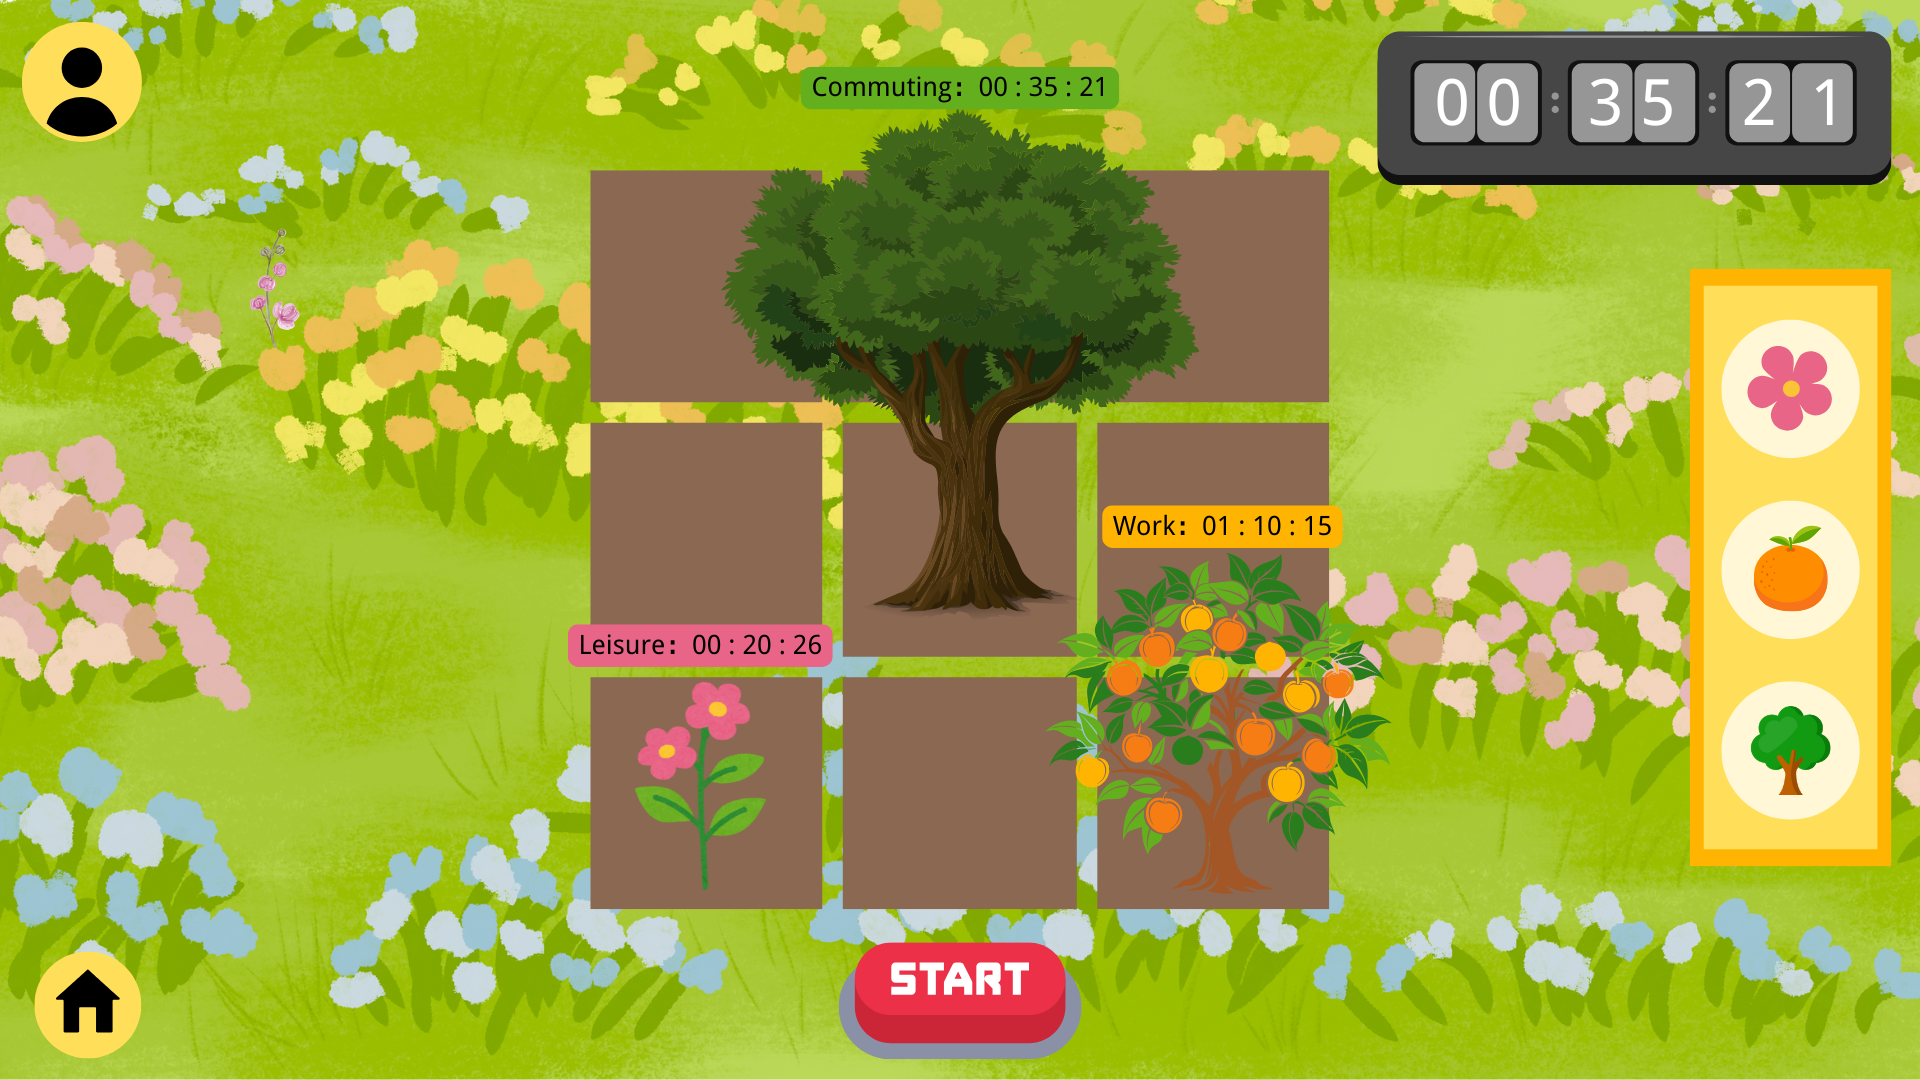
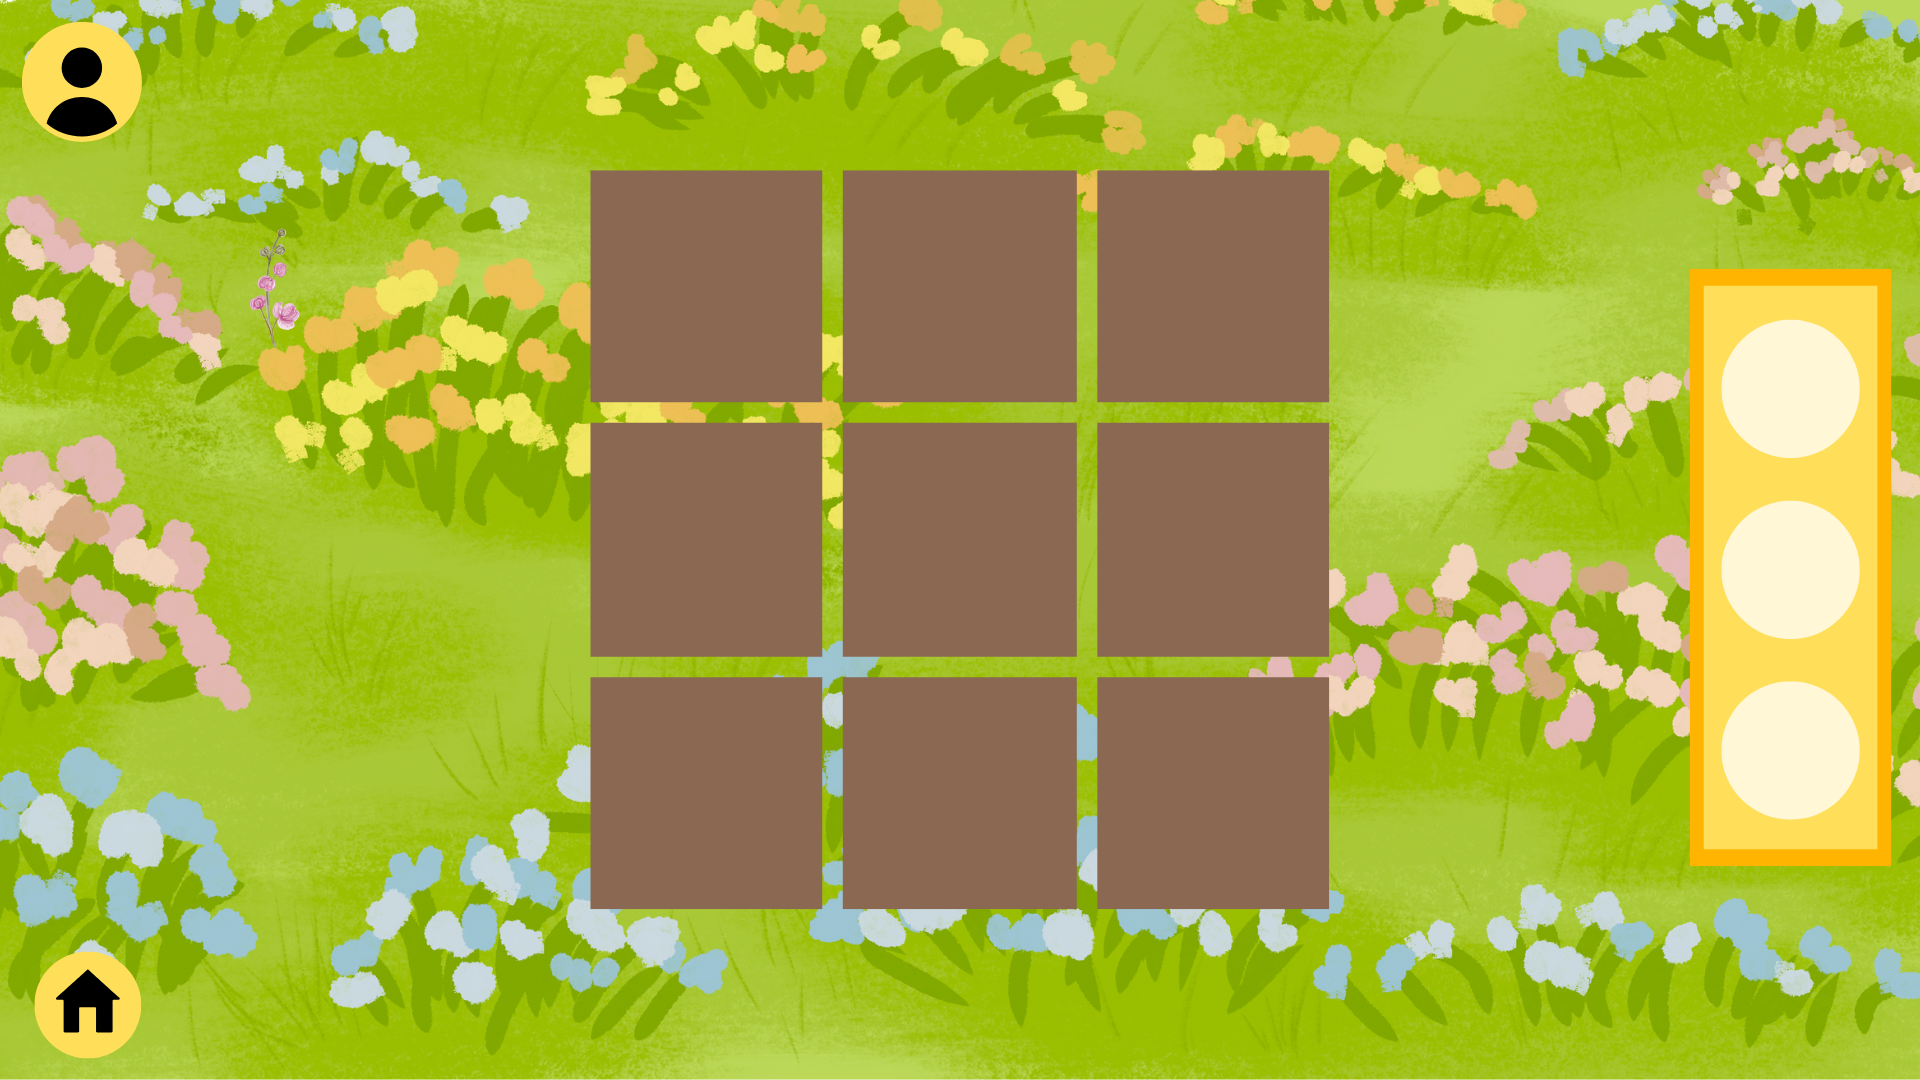
Fixed UI & Added Home page

diff --git a/main.py b/main.py
@@ -6,8 +6,8 @@ import time
 
 # --- 設定常數 ---
 # 遊戲尺寸: 應與背景圖片大小相同 (這裡假設為 800x600)
-SCREEN_WIDTH = 800
-SCREEN_HEIGHT = 600
+SCREEN_WIDTH = 960
+SCREEN_HEIGHT = 540
 FPS = 60
 DATA_FILE = 'data.json'
 
@@ -32,7 +32,7 @@ PLANT_TYPES = {
 # }
 STAGE_DURATIONS = {
     1: 4,  # 900 秒 (0-15 分鐘)
-    2: 3,  # 1800 秒 (15-30 分鐘)
+    2: 6,  # 1800 秒 (15-30 分鐘)
     3: float('inf')  # >30 分鐘
 }
 
@@ -44,6 +44,8 @@ PLOT_POSITIONS = [
     (200, 300), (400, 300), (600, 300),  # 網格中心應是 (400, 300) 附近的大樹位置
     (200, 450), (400, 450), (600, 450)
 ]
+
+
 # 這裡將中心的大樹視為背景的一部分或不可種植的固定元素，
 # 故將網格繪製在周圍 8 塊，但文件說是 9 塊，
 # 程式中以 9 塊 (3x3) 網格處理，並調整座標以適應圖片。
@@ -56,15 +58,29 @@ PLOT_POSITIONS = [
     (250, 450), (400, 450), (550, 450)
 ]
 
+PLOT_POSITIONS = [
+    (355, 145), (480, 145), (605, 145),
+    (355, 270), (480, 270), (605, 270),
+    (355, 395), (480, 395), (605, 395)
+]
+
 # 植物選擇按鈕位置 (根據圖片右側的三個按鈕)
 BUTTON_RECTS = {
-    1: pygame.Rect(690, 100, 100, 100),  # 花 (Leisure)
-    2: pygame.Rect(690, 250, 100, 100),  # 果樹 (Work)
-    3: pygame.Rect(690, 400, 100, 100)  # 樹 (Commuting)
+    1: pygame.Rect(855, 155, 80, 80),  # 花 (Leisure)
+    2: pygame.Rect(855, 240, 80, 80),  # 果樹 (Work)
+    3: pygame.Rect(855, 325, 80, 80)  # 樹 (Commuting)
+}
+
+BUTTON_RECTS = {
+    1: pygame.Rect(855, 155, 80, 80),  # 花 (Leisure)
+    2: pygame.Rect(855, 240, 80, 80),  # 果樹 (Work)
+    3: pygame.Rect(855, 325, 80, 80)  # 樹 (Commuting)
 }
 
 # 開始/停止按鈕位置 (圖片底部的紅色按鈕)
-START_BUTTON_RECT = pygame.Rect(400 - 50, 520, 100, 50)
+START_BUTTON_RECT = pygame.Rect(425, 475, 100, 50)
+
+home_button_rect = pygame.Rect(-6.5, 477, 320, 100)
 
 
 # --- 資料處理函式 ---
@@ -157,14 +173,24 @@ def get_plant_sprite(plant_type, duration):
 
 # --- Pygame 輔助函式 ---
 
-def draw_text(surface, text, font, color, x, y, center=False):
-    """繪製文字到螢幕。"""
+def draw_text(surface, text, font, color, x, y, center=False, bg_color=None, padding=5):
     text_surface = font.render(text, True, color)
     text_rect = text_surface.get_rect()
+
     if center:
         text_rect.center = (x, y)
     else:
         text_rect.topleft = (x, y)
+
+    # 如果有背景顏色，先繪製背景矩形
+    if bg_color is not None:
+        # 建立背景矩形（比文字大一點）
+        bg_rect = text_rect.inflate(padding * 2, padding * 2)
+        pygame.draw.rect(surface, bg_color, bg_rect)
+        # 可選：加上邊框
+        # pygame.draw.rect(surface, (0, 0, 0), bg_rect, 2)
+
+    # 繪製文字
     surface.blit(text_surface, text_rect)
     return text_rect
 
@@ -230,13 +256,17 @@ class ThrivingLikeTrees:
         self.screen = pygame.display.set_mode((SCREEN_WIDTH, SCREEN_HEIGHT))
         pygame.display.set_caption("Thriving like Trees")
         self.clock = pygame.time.Clock()
-        self.font_small = pygame.font.Font(None, 24)
-        self.font_medium = pygame.font.Font(None, 36)
-        self.font_large = pygame.font.Font(None, 48)
+        font_path = "C:/Windows/Fonts/msyh.ttc"  # 微軟雅黑
+        self.font_small = pygame.font.Font(font_path, 12)
+        self.font_medium = pygame.font.Font(font_path, 24)
+        self.font_large = pygame.font.Font(font_path, 36)
 
         # 載入資源
         self.background_img = load_image('./image/background.png', (SCREEN_WIDTH, SCREEN_HEIGHT))
+        self.home_img = load_image('./image/Home.png', (SCREEN_WIDTH, SCREEN_HEIGHT))
         self.start_button_img = load_image('./image/start_button.png', (100, 50))
+        self.home_button_img = load_image('./image/home_button.png', (100, 50))
+        self.stop_button_img = load_image('./image/stop_button.png', (100, 50))
         # 載入植物選擇按鈕圖 (這裡只是佔位，您需要替換成實際圖片)
         self.plant_select_imgs = {
             1: load_image('./image/flower_icon.png', (80, 80)),
@@ -244,8 +274,8 @@ class ThrivingLikeTrees:
             3: load_image('./image/tree_icon.png', (80, 80)),
         }
 
-        # 遊戲狀態
-        self.state = 'GARDEN_VIEW'  # 'GARDEN_VIEW', 'INPUT_NAME'
+        # 遊戲狀態: 'HOME', 'GARDEN_VIEW', 'INPUT_NAME'
+        self.state = 'HOME'
 
         # 資料
         self.data = load_data()
@@ -260,27 +290,58 @@ class ThrivingLikeTrees:
         self.selected_plant_type = 0  # 1: 花, 2: 果樹, 3: 樹
         self.planting_index = -1  # 當前種植的位置索引
 
+        # 提示文字
+        self.warning_text = ""
+        self.warning_time = 0
+
         # 文字輸入框
         self.input_box = TextInputBox(SCREEN_WIDTH // 2 - 100, SCREEN_HEIGHT // 2, 200, 40, self.font_medium)
 
         # 頁面切換按鈕 (假設)
-        self.prev_page_rect = pygame.Rect(50, SCREEN_HEIGHT // 2, 50, 50)
-        self.next_page_rect = pygame.Rect(SCREEN_WIDTH - 100, SCREEN_HEIGHT // 2, 50, 50)
+        self.prev_page_rect = pygame.Rect(200, SCREEN_HEIGHT // 2, 50, 50)
+        self.next_page_rect = pygame.Rect(SCREEN_WIDTH - 250, SCREEN_HEIGHT // 2, 50, 50)
+
+        # 主頁按鈕 (左下角)
+        #self.home_button_rect = pygame.Rect(23.5, 483, 40, 40)
+        self.home_button_rect = pygame.Rect(0, 480, 320, 100)
+
+        # 進入遊戲按鈕 (在主頁中央)
+        self.enter_game_button_rect = pygame.Rect(SCREEN_WIDTH // 2 - 50, SCREEN_HEIGHT // 2 + 100, 100, 50)
+
+    def show_warning(self, text, duration=2):
+        """顯示臨時警告文字 (預設 2 秒後消失)"""
+        self.warning_text = text
+        self.warning_time = time.time() + duration
 
     def handle_input(self):
         """處理 Pygame 事件。"""
         for event in pygame.event.get():
             if event.type == pygame.QUIT:
                 if self.is_timing:
-                    # 如果正在計時，則在退出前停止計時並保存 (可選)
                     self.stop_timer(event_name="未命名活動")
                 save_data(self.data)
                 pygame.quit()
                 sys.exit()
 
-            if self.state == 'GARDEN_VIEW':
+            if self.state == 'HOME':
                 if event.type == pygame.MOUSEBUTTONDOWN:
                     mouse_pos = event.pos
+
+                    # 進入遊戲按鈕
+                    if self.enter_game_button_rect.collidepoint(mouse_pos):
+                        self.state = 'GARDEN_VIEW'
+                        self.current_field_index = len(self.data['trees']) - 1
+
+            elif self.state == 'GARDEN_VIEW':
+                if event.type == pygame.MOUSEBUTTONDOWN:
+                    mouse_pos = event.pos
+
+                    # 主頁按鈕 (左下角)
+                    if self.home_button_rect.collidepoint(mouse_pos):
+                        if self.is_timing:
+                            self.stop_timer(event_name="未命名活動")
+                        self.state = 'HOME'
+                        self.selected_plant_type = 0
 
                     # 1. 選擇植物種類
                     for plant_type, rect in BUTTON_RECTS.items():
@@ -295,9 +356,11 @@ class ThrivingLikeTrees:
                             if self.selected_plant_type != 0:
                                 self.start_timer()
                             else:
-                                print("請先選擇植物種類。")
+                                self.show_warning("請先選擇植物種類", duration=2)
                         else:
                             self.state = 'INPUT_NAME'  # 停止計時並進入輸入名稱狀態
+                            self.input_box.text = ''  # 清空輸入框
+                            self.input_box.active = True  # 自動聚焦
 
                     # 3. 頁面切換
                     if self.prev_page_rect.collidepoint(mouse_pos) and self.current_field_index > 0:
@@ -313,7 +376,6 @@ class ThrivingLikeTrees:
                     # 按 Enter 後保存並返回花園頁面
                     self.stop_timer(event_name)
                     self.state = 'GARDEN_VIEW'
-                    self.input_box.text = ''  # 清空輸入框
 
     def start_timer(self):
         """開始計時，並找到種植位置。"""
@@ -363,11 +425,29 @@ class ThrivingLikeTrees:
         """更新遊戲邏輯，例如計時器。"""
         if self.is_timing:
             self.current_duration = int(time.time() - self.start_time)
-            # 在計時中，當前種植的位置也會顯示正在成長的植物
-            # (但在停止前不寫入 data.json)
 
     def draw(self):
         """繪製所有遊戲元素。"""
+        if self.state == 'HOME':
+            self.draw_home()
+        elif self.state == 'GARDEN_VIEW':
+            self.draw_garden()
+        elif self.state == 'INPUT_NAME':
+            self.draw_garden()  # 先畫花園
+            self.draw_input_name()  # 再疊上輸入框
+
+        pygame.display.flip()
+
+    def draw_home(self):
+        """繪製主頁"""
+        self.screen.blit(self.home_img, (0, 0))
+
+        # 進入遊戲按鈕
+        button_img = self.start_button_img
+        self.screen.blit(button_img, self.enter_game_button_rect)
+
+    def draw_garden(self):
+        """繪製花園頁面"""
         self.screen.blit(self.background_img, (0, 0))
 
         # --- 繪製園丁網格 (當前頁面) ---
@@ -396,38 +476,40 @@ class ThrivingLikeTrees:
                 self.screen.blit(plant_sprite, rect)
 
                 # 繪製植物身上的 label
-                label_text = ""
+                label_text_1 = ""
+                label_text_2 = ""
                 if is_growing_now:
-                    label_text = f"{PLANT_TYPES.get(plant_type, 'N/A')}: {format_time(duration_to_display)} (GROWING...)"
+                    label_text_1 = f"{PLANT_TYPES.get(plant_type, 'N/A')}: {format_time(duration_to_display)}"
+                    label_text_2 = "(GROWING...)"
                 else:
-                    label_text = f"{PLANT_TYPES.get(plant_type, 'N/A')}: {event_name} - {format_time(duration_to_display)}"
+                    label_text_1 = f"{PLANT_TYPES.get(plant_type, 'N/A')}: {event_name}"
+                    label_text_2 = f"{format_time(duration_to_display)}"
 
-                draw_text(self.screen, label_text, self.font_small, BLACK, x, y - 60, center=True)
+                draw_text(self.screen, label_text_1, self.font_small, BLACK, x, y - 85, center=True, bg_color=WHITE)
+                draw_text(self.screen, label_text_2, self.font_small, BLACK, x, y - 60, center=True, bg_color=WHITE)
 
         # --- 繪製植物選擇按鈕 ---
         for plant_type, rect in BUTTON_RECTS.items():
             # 繪製按鈕框
-            pygame.draw.rect(self.screen, LIGHT_GREY, rect)
+            pygame.draw.circle(self.screen, (255, 247, 214), (rect.x + rect.width / 2, rect.y + rect.width / 2), 40)
             # 繪製圖標
             icon_rect = self.plant_select_imgs[plant_type].get_rect(center=rect.center)
             self.screen.blit(self.plant_select_imgs[plant_type], icon_rect)
             # 如果被選中，繪製高亮邊框
             if self.selected_plant_type == plant_type:
                 pygame.draw.rect(self.screen, GREEN, rect, 3)
-            # 繪製類別名稱
-            draw_text(self.screen, PLANT_TYPES[plant_type], self.font_small, BLACK, rect.centerx, rect.bottom + 5,
-                      center=True)
 
         # --- 繪製計時器 ---
         timer_text = format_time(self.current_duration) if self.is_timing else "00:00:00"
-        # 繪製計時器 (圖片右上角數字時鐘)
-        draw_text(self.screen, timer_text, self.font_large, BLACK, 750, 40, center=True)
+        draw_text(self.screen, timer_text, self.font_large, BLACK, 800, 40, center=True)
 
         # --- 繪製開始/停止按鈕 ---
-        # 繪製圖片 (或紅色矩形)
-        pygame.draw.rect(self.screen, (255, 0, 0), START_BUTTON_RECT)
-        draw_text(self.screen, "STOP" if self.is_timing else "START", self.font_medium, WHITE,
-                  START_BUTTON_RECT.centerx, START_BUTTON_RECT.centery, center=True)
+        if self.is_timing:
+            button_img = self.stop_button_img
+        else:
+            button_img = self.start_button_img
+
+        self.screen.blit(button_img, START_BUTTON_RECT)
 
         # --- 繪製頁面切換按鈕 ---
         draw_text(self.screen, "<", self.font_large, BLACK, self.prev_page_rect.centerx, self.prev_page_rect.centery,
@@ -435,22 +517,38 @@ class ThrivingLikeTrees:
         draw_text(self.screen, ">", self.font_large, BLACK, self.next_page_rect.centerx, self.next_page_rect.centery,
                   center=True)
         page_info = f"Garden {self.current_field_index + 1}/{len(self.data['trees'])}"
-        draw_text(self.screen, page_info, self.font_small, BLACK, SCREEN_WIDTH // 2, 50, center=True)
+        draw_text(self.screen, page_info, self.font_medium, BLACK, SCREEN_WIDTH // 2, 25, center=True)
 
-        # --- 繪製輸入名稱畫面 ---
-        if self.state == 'INPUT_NAME':
+        # --- 繪製主頁按鈕 (左下角) ---
+        #pygame.draw.rect(self.screen, (255, 247, 214), self.home_button_rect)
+        #draw_text(self.screen, "🏠", self.font_large, BLACK, self.home_button_rect.centerx,
+                  #self.home_button_rect.centery, center=True)
+        button_img = self.home_button_img
+        self.screen.blit(button_img, home_button_rect)
+
+        # --- 繪製警告提示文字 ---
+        if self.warning_text and time.time() < self.warning_time:
             # 遮罩背景
             s = pygame.Surface((SCREEN_WIDTH, SCREEN_HEIGHT), pygame.SRCALPHA)
-            s.fill((0, 0, 0, 150))  # 半透明黑色
+            s.fill((0, 0, 0, 100))
             self.screen.blit(s, (0, 0))
 
-            draw_text(self.screen, "Input Activity Name:", self.font_large, WHITE, SCREEN_WIDTH // 2,
-                      SCREEN_HEIGHT // 2 - 50, center=True)
-            self.input_box.draw(self.screen)
-            draw_text(self.screen, "(Press Enter to Save)", self.font_small, WHITE, SCREEN_WIDTH // 2,
-                      SCREEN_HEIGHT // 2 + 60, center=True)
+            # 繪製提示文字
+            draw_text(self.screen, self.warning_text, self.font_large, (255, 100, 100),
+                      SCREEN_WIDTH // 2, SCREEN_HEIGHT // 2, center=True, bg_color=(255, 255, 200))
 
-        pygame.display.flip()
+    def draw_input_name(self):
+        """繪製輸入名稱畫面"""
+        # 遮罩背景
+        s = pygame.Surface((SCREEN_WIDTH, SCREEN_HEIGHT), pygame.SRCALPHA)
+        s.fill((0, 0, 0, 150))  # 半透明黑色
+        self.screen.blit(s, (0, 0))
+
+        draw_text(self.screen, "Input Activity Name:", self.font_large, WHITE, SCREEN_WIDTH // 2,
+                  SCREEN_HEIGHT // 2 - 50, center=True)
+        self.input_box.draw(self.screen)
+        draw_text(self.screen, "(Press Enter to Save)", self.font_small, WHITE, SCREEN_WIDTH // 2,
+                  SCREEN_HEIGHT // 2 + 60, center=True)
 
     def run(self):
         """遊戲主循環。"""
@@ -467,22 +565,6 @@ if __name__ == '__main__':
     # 創建一個空的 image 資料夾以便運行
     if not os.path.exists('image'):
         os.makedirs('image')
-        # 創建佔位符圖片
-        print("Creating placeholder images in 'image/' folder. Please replace them with actual assets.")
-        size = (100, 100)
-        # 植物佔位符 (plant1_1.png, plant1_2.png, etc.)
-        for t in range(1, 4):
-            for s in range(1, 4):
-                surf = pygame.Surface(size, pygame.SRCALPHA)
-                surf.fill(((t - 1) * 80, (s - 1) * 80, 50, 200))  # 不同的顏色佔位
-                draw_text(surf, f'{t}-{s}', pygame.font.Font(None, 30), WHITE, size[0] // 2, size[1] // 2, center=True)
-                pygame.image.save(surf, f'./image/plant{t}_{s}.png')
-        # 背景和按鈕佔位符
-        pygame.image.save(pygame.Surface((SCREEN_WIDTH, SCREEN_HEIGHT), pygame.SRCALPHA), './image/background.png')
-        pygame.image.save(pygame.Surface((100, 50), pygame.SRCALPHA), './image/start_button.png')
-        pygame.image.save(pygame.Surface((80, 80), pygame.SRCALPHA), './image/flower_icon.png')
-        pygame.image.save(pygame.Surface((80, 80), pygame.SRCALPHA), './image/orange_icon.png')
-        pygame.image.save(pygame.Surface((80, 80), pygame.SRCALPHA), './image/tree_icon.png')
 
     # 確保 data.json 存在
     if not os.path.exists(DATA_FILE):
